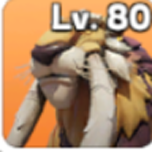
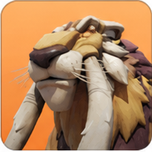
Pets: clean portraits, no level captions
Replaced all fourteen with the caption-free art you supplied. Tapir and mammoth
land the right way round in the new set too, matching the swap.

Checked the mapping rather than trusting reading order: the rarity panel colour of
each new tile against the file it replaces agrees on 12 of 14, and the two that
did not are sampling artefacts - the frost gorilla's blue fur and the cave hyena's
grey panel fooled the sampler, and both are unambiguous by eye. Side by side every
pair is the same pet in the same pose.

Worth noting the new art is framed slightly wider, so heads and horns that used to
be cropped by the caption are now fully in shot.

diff --git a/index.html b/index.html
@@ -5,7 +5,7 @@
     <meta name="viewport" content="width=device-width, initial-scale=1" />
     <title>Whiteout Survival Personal Dashboard</title>
     <link rel="icon" href="assets/favicon.svg" type="image/svg+xml" />
-    <link rel="stylesheet" href="src/styles.css?v=20260728-wave37" />
+    <link rel="stylesheet" href="src/styles.css?v=20260728-wave38" />
   </head>
   <body>
     <div class="app-shell">
@@ -74,6 +74,6 @@
     </template>
 
     <script type="importmap">{"imports":{"three":"https://cdn.jsdelivr.net/npm/three@0.160.0/build/three.module.min.js","three/addons/":"https://cdn.jsdelivr.net/npm/three@0.160.0/examples/jsm/"}}</script>
-<script type="module" src="src/app.js?v=20260728-wave37"></script>
+<script type="module" src="src/app.js?v=20260728-wave38"></script>
   </body>
 </html>

diff --git a/src/app.js b/src/app.js
@@ -1312,7 +1312,7 @@ function assetHasHiddenCount(asset) {
   return Boolean(asset && typeof asset === "object" && (asset.hide_count || asset.hideCount));
 }
 
-const ASSET_CACHE_VERSION = "20260728i";
+const ASSET_CACHE_VERSION = "20260728j";
 
 function assetUrl(src) {
   if (!src) return src;
